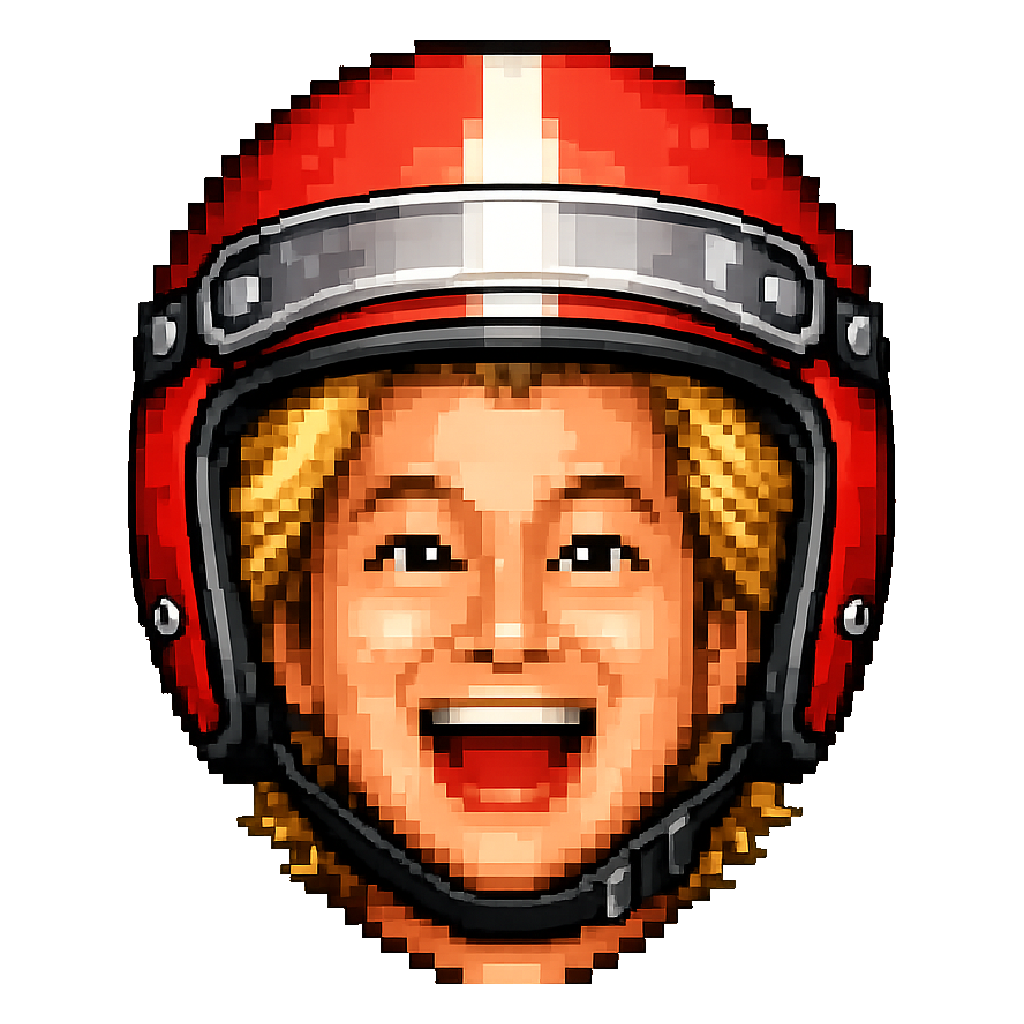
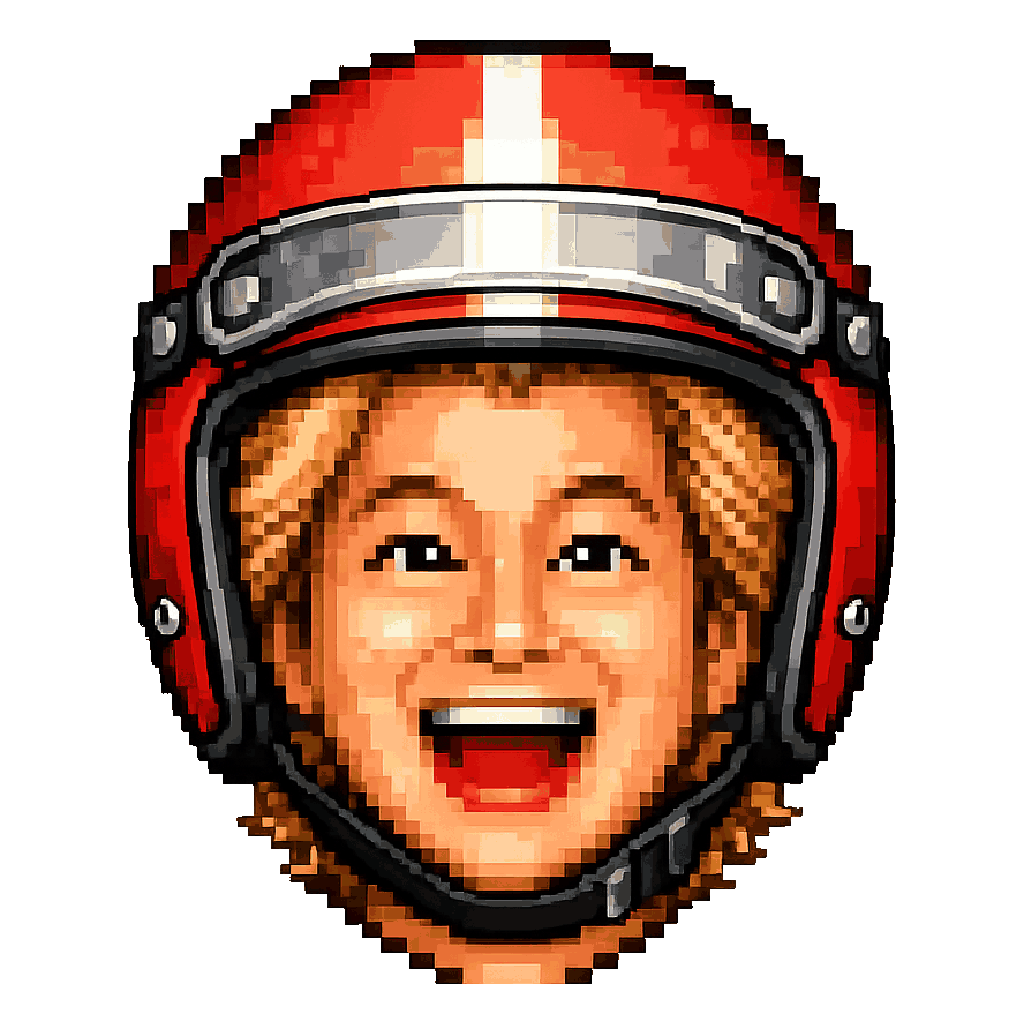
スマホ対応：入力バグ2件の修正、バランス調整、読み込み量の削減
■ タップするとフォーカスが外れる
pointerdown で隠し input に focus() した直後、続く mousedown の既定動作が
フォーカスを body に戻していた。タップするとキーボードが出るどころか引っ込む状態。
pointerdown と mousedown の両方で preventDefault して解決。

■ Android では1打も入らない
Gboard は予測変換を通すため keydown が keyCode:229 になり、実文字は input
イベントにしか来ない。旧コードは input ハンドラで文字を捨てていたので完全に無反応だった。
1文字ぶんの処理を feedLetter() に集約し keydown と input の両方から呼ぶ。
keydown で拾えたときは preventDefault するので input は発火せず、二重には数えない。

■ スマホ向けバランス
ソフトキーボードで5打/秒は出ないので、タッチ端末だけ加速を上げ減衰を弱めた。
勝利ラインが約5打/秒→約3打/秒。CPU速度とランク基準は据え置きで土俵は同じ。
数値は loop() と同じ式を再現して探索した（CHAR_BOOST だけ上げても
MAX_SPEED の上限に当たるため DECAY も動かす必要がある）。

■ 読み込み量 1229KB → 292KB
タイトルの初期 src が kazu.png だったため、結局差し替わるのに毎回 429KB
余計に読んでいた。初期値をヘルメット版にし、無い場合は onerror で戻す形に変更。
あわせて PNG を減色（tools/art/optimize.py）。実表示サイズでの差を測って
差が出ない最小の色数を選ぶようにしてある。

Playwright で確認：PC は回帰なし、iPhone 3打/秒で1位ランクA、
Pixel 2打/秒で3位ランクC、いずれも Android 経路のみで通しプレイ。
アセット欠落時のフォールバックも両方向で確認済み。

Claude-Session: https://claude.ai/code/session_01VHNE2mrcttgfikWEFu7M6m

diff --git a/index.html b/index.html
@@ -199,7 +199,9 @@
   <!-- タイトル -->
   <section id="title" class="screen show">
     <div class="band top checker wave"></div>
-    <img class="kazu-title" id="titleImg" src="assets/kazu.png" alt="カズ">
+    <!-- 初期値をヘルメット版にしておく。無い環境では probeAssets が kazu.png に戻す。
+         ここを kazu.png にすると、結局差し替わるのに毎回 400KB 超を余計に読む。 -->
+    <img class="kazu-title" id="titleImg" src="assets/kazu-helmet.png" alt="カズ">
     <div>
       <div class="logo">カズ<em>レーサー</em></div>
       <div class="logo-rule checker"></div>
@@ -229,7 +231,7 @@
     </div>
     <div class="hint" id="hint">消灯した瞬間に打ち始める！</div>
     <div class="boom" id="boom">💥</div>
-    <input id="kb" autocomplete="off" autocorrect="off" autocapitalize="off" spellcheck="false" inputmode="latin">
+    <input id="kb" type="text" autocomplete="off" autocorrect="off" autocapitalize="off" spellcheck="false" inputmode="text">
   </section>
 
   <!-- リザルト -->
@@ -259,11 +261,16 @@
   const $ = s => document.querySelector(s);
 
   // ===== チューニング =====
+  // スマホはソフトキーボードなので 5打/秒 が物理的に出ない。
+  // 加速を上げて減衰を弱め、勝利ラインを PC の約5打/秒 → 約3打/秒 に下げる。
+  // CPU の速度もランクの基準時間も据え置きなので、土俵は同じまま補助だけが入る。
+  const TOUCH = matchMedia('(hover: none) and (pointer: coarse)').matches;
+
   const TRACK_LEN   = 1000;  // コース距離(単位)
-  const CHAR_BOOST  = 150;   // 1文字正解あたりの加速
-  const WORD_BONUS  = 100;   // 単語を打ち切ったボーナス
+  const CHAR_BOOST  = TOUCH ? 260 : 150;   // 1文字正解あたりの加速
+  const WORD_BONUS  = TOUCH ? 175 : 100;   // 単語を打ち切ったボーナス
   const MISS_KEEP   = 0.55;  // ミスタイプ時に残る速度の割合
-  const DECAY       = 4.5;   // 減速係数(/秒)
+  const DECAY       = TOUCH ? 4.2 : 4.5;   // 減速係数(/秒)
   const MAX_SPEED   = 300;
   const RACE_LIMIT  = 25;    // これを超えたらリタイア（手が止まった時の保険）
   const CPUS = [
@@ -324,8 +331,8 @@
   function probeAssets(){
     Object.entries(OPT).forEach(([k, src]) => {
       const im = new Image();
-      im.onload  = () => { have[k] = true; if (k === 'helmet') $('#titleImg').src = OPT.helmet; };
-      im.onerror = () => { have[k] = false; };
+      im.onload  = () => { have[k] = true; };
+      im.onerror = () => { have[k] = false; if (k === 'helmet') $('#titleImg').src = BASE; };
       im.src = src;
     });
   }
@@ -558,6 +565,16 @@
     return null;
   }
 
+  // 1文字ぶんの処理。キーボードからでもソフトキーボードからでもここに集約する。
+  // 拾えたら true を返す（＝呼び出し側は既定動作を止めてよい）。
+  function feedLetter(letter){
+    if (state === S.SIGNAL) { jumpStart(); return true; }   // 消灯前 → フライング
+    if (state === S.WAIT)   { beginRace(performance.now()); }
+    else if (state !== S.RACE) return false;
+    if (letter === word[typed]) hit(); else whiff();
+    return true;
+  }
+
   function onKey(e){
     if (e.metaKey || e.ctrlKey || e.altKey) return;
     const letter = keyLetter(e);
@@ -566,30 +583,43 @@
       if (letter || e.code === 'Space') { e.preventDefault(); jumpStart(); }
       return;
     }
-    if (state === S.WAIT) {
+    if (state === S.WAIT || state === S.RACE) {
       if (!letter) return;
+      // ここで preventDefault することで隠し input に文字が入らず、
+      // 後述の input ハンドラと二重に数えられない（PC と iOS はこちらの経路）。
       e.preventDefault();
-      beginRace(performance.now());
-      if (letter === word[typed]) hit(); else whiff();
-      return;
-    }
-    if (state === S.RACE) {
-      if (!letter) return;
-      e.preventDefault();
-      if (letter === word[typed]) hit(); else whiff();
+      feedLetter(letter);
       return;
     }
     if (state === S.TITLE  && (e.code === 'Enter' || e.code === 'Space')) go();
     if (state === S.RESULT && (e.code === 'Enter' || e.code === 'Space')) go();
   }
   window.addEventListener('keydown', onKey);
-  // スマホ：画面タップでソフトキーボードを呼ぶ
-  $('#game').addEventListener('pointerdown', () => {
+
+  // スマホ：画面タップでソフトキーボードを呼ぶ。
+  // pointerdown で focus() しても、続く mousedown の既定動作がフォーカスを
+  // body に戻してしまいキーボードが引っ込む。既定動作を止めて防ぐ。
+  $('#game').addEventListener('pointerdown', e => {
     if (state === S.SIGNAL || state === S.WAIT || state === S.RACE) {
-      try { $('#kb').focus({ preventScroll:true }); } catch(e){}
+      e.preventDefault();
+      try { $('#kb').focus({ preventScroll:true }); } catch(err){}
     }
   });
-  $('#kb').addEventListener('input', e => { e.target.value = ''; });
+  $('#game').addEventListener('mousedown', e => {
+    if (state === S.SIGNAL || state === S.WAIT || state === S.RACE) e.preventDefault();
+  });
+
+  // Android（Gboard など）は予測変換を通すため keydown が key:'Unidentified' /
+  // keyCode:229 になり、実際の文字は input イベントにしか来ない。
+  // ここで拾わないと Android では1打も入らない。**この経路を消さないこと。**
+  // PC と iOS は keydown 側で preventDefault 済みなので value は空のまま＝二重には数えない。
+  $('#kb').addEventListener('input', e => {
+    const typedText = e.target.value;
+    e.target.value = '';
+    for (const ch of typedText.toLowerCase()) {
+      if (ch >= 'a' && ch <= 'z') feedLetter(ch);
+    }
+  });
   // ミス演出は再生し終わったら元に戻す（付けっぱなしだと赤いままになる）
   wordBox.addEventListener('animationend', () => wordBox.classList.remove('miss'));
 

diff --git a/tools/art/optimize.py b/tools/art/optimize.py
@@ -1,0 +1,50 @@
+"""assets/ の PNG を減色して軽くする。
+
+どれも表示は最大 150px なので色数は要らない。透過は二値のまま保つこと
+（半透明を残すと減色時に縁が濁る）。
+"""
+import sys, os
+from PIL import Image
+import numpy as np
+
+def quantize(path, colors):
+    im = Image.open(path).convert('RGBA')
+    a = np.asarray(im)
+    alpha = a[..., 3] >= 128
+    # 透明部分は最頻色で埋めてから減色する（縁に黒や白が混ざるのを防ぐ）
+    rgb = a[..., :3].copy()
+    if alpha.any():
+        fill = np.bincount((rgb[alpha][:, 0].astype(int) << 16) +
+                           (rgb[alpha][:, 1].astype(int) << 8) +
+                            rgb[alpha][:, 2].astype(int)).argmax()
+        rgb[~alpha] = (fill >> 16 & 255, fill >> 8 & 255, fill & 255)
+    q = Image.fromarray(rgb, 'RGB').quantize(colors=colors, method=Image.MEDIANCUT,
+                                             dither=Image.NONE).convert('RGB')
+    out = np.dstack([np.asarray(q), np.where(alpha, 255, 0).astype(np.uint8)])
+    return Image.fromarray(out, 'RGBA')
+
+def diff(a, b):
+    """見た目の変化量：実際の表示サイズ(150px)に落として比べる。"""
+    fa = np.asarray(a.resize((150, 150), Image.LANCZOS).convert('RGBA')).astype(int)
+    fb = np.asarray(b.resize((150, 150), Image.LANCZOS).convert('RGBA')).astype(int)
+    return np.abs(fa - fb).mean()
+
+for path in sys.argv[1:]:
+    orig = Image.open(path).convert('RGBA')
+    before = os.path.getsize(path)
+    best = None
+    for n in (32, 48, 64, 96, 128):
+        q = quantize(path, n)
+        tmp = f'/tmp/q{n}.png'
+        q.save(tmp, optimize=True)
+        size = os.path.getsize(tmp)
+        d = diff(orig, q)
+        print(f'  {os.path.basename(path)}  {n:>3}色 → {size/1024:6.1f} KB  '
+              f'(元の {100*size/before:4.1f}%)  表示時の差 {d:.2f}')
+        if best is None and d < 1.2:          # 150px で見てほぼ差が出ない最小の色数
+            best = (n, q, size)
+    if best:
+        n, q, size = best
+        q.save(path, optimize=True)
+        print(f'→ {os.path.basename(path)}: {n}色で保存  {before/1024:.0f} KB → {size/1024:.0f} KB'
+              f'  ({100*(1-size/before):.0f}% 削減)\n')

diff --git a/README.md b/README.md
@@ -17,7 +17,7 @@
 **日本語入力（IME）はONのままで大丈夫です。** キーの物理位置で判定しているので、
 半角/全角を切り替えなくてもそのまま打てます。
 
-スマホの場合は画面をタップするとキーボードが出ます。
+スマホの場合は画面をタップするとキーボードが出ます。iPhone・Android どちらでも打てます。
 25秒走り切れないとリタイアです。
 
 ## ランク目安
@@ -35,6 +35,10 @@
 最速CPU「カズC」は約7.2秒で走ります。抜くにはだいたい **5打/秒** 必要です。
 ベストタイムはブラウザに保存されます。
 
+**スマホでは加速が強めに設定されています。** ソフトキーボードで5打/秒は出ないので、
+タッチ端末だけ1打あたりの加速を上げてあります（勝利ラインは約3打/秒）。
+CPUの速さとランクの基準時間はPCと同じです。
+
 ## 構成
 
 ```
@@ -45,7 +49,7 @@ kazu-racer/
 │   ├── kazu-helmet.png   # タイトルの、ヘルメットをかぶったカズ
 │   ├── kazu-side.png     # コースを走る右向きのカズ
 │   └── kazu-flag.png     # 1位のときリザルトに出る、旗を掲げたカズ
-├── tools/art/            # 上記アセットの生成・下ごしらえスクリプト（Pillow）
+├── tools/art/            # アセットの生成・下ごしらえ・減色スクリプト（Pillow）
 ├── README.md
 └── PROGRESS.md
 ```
